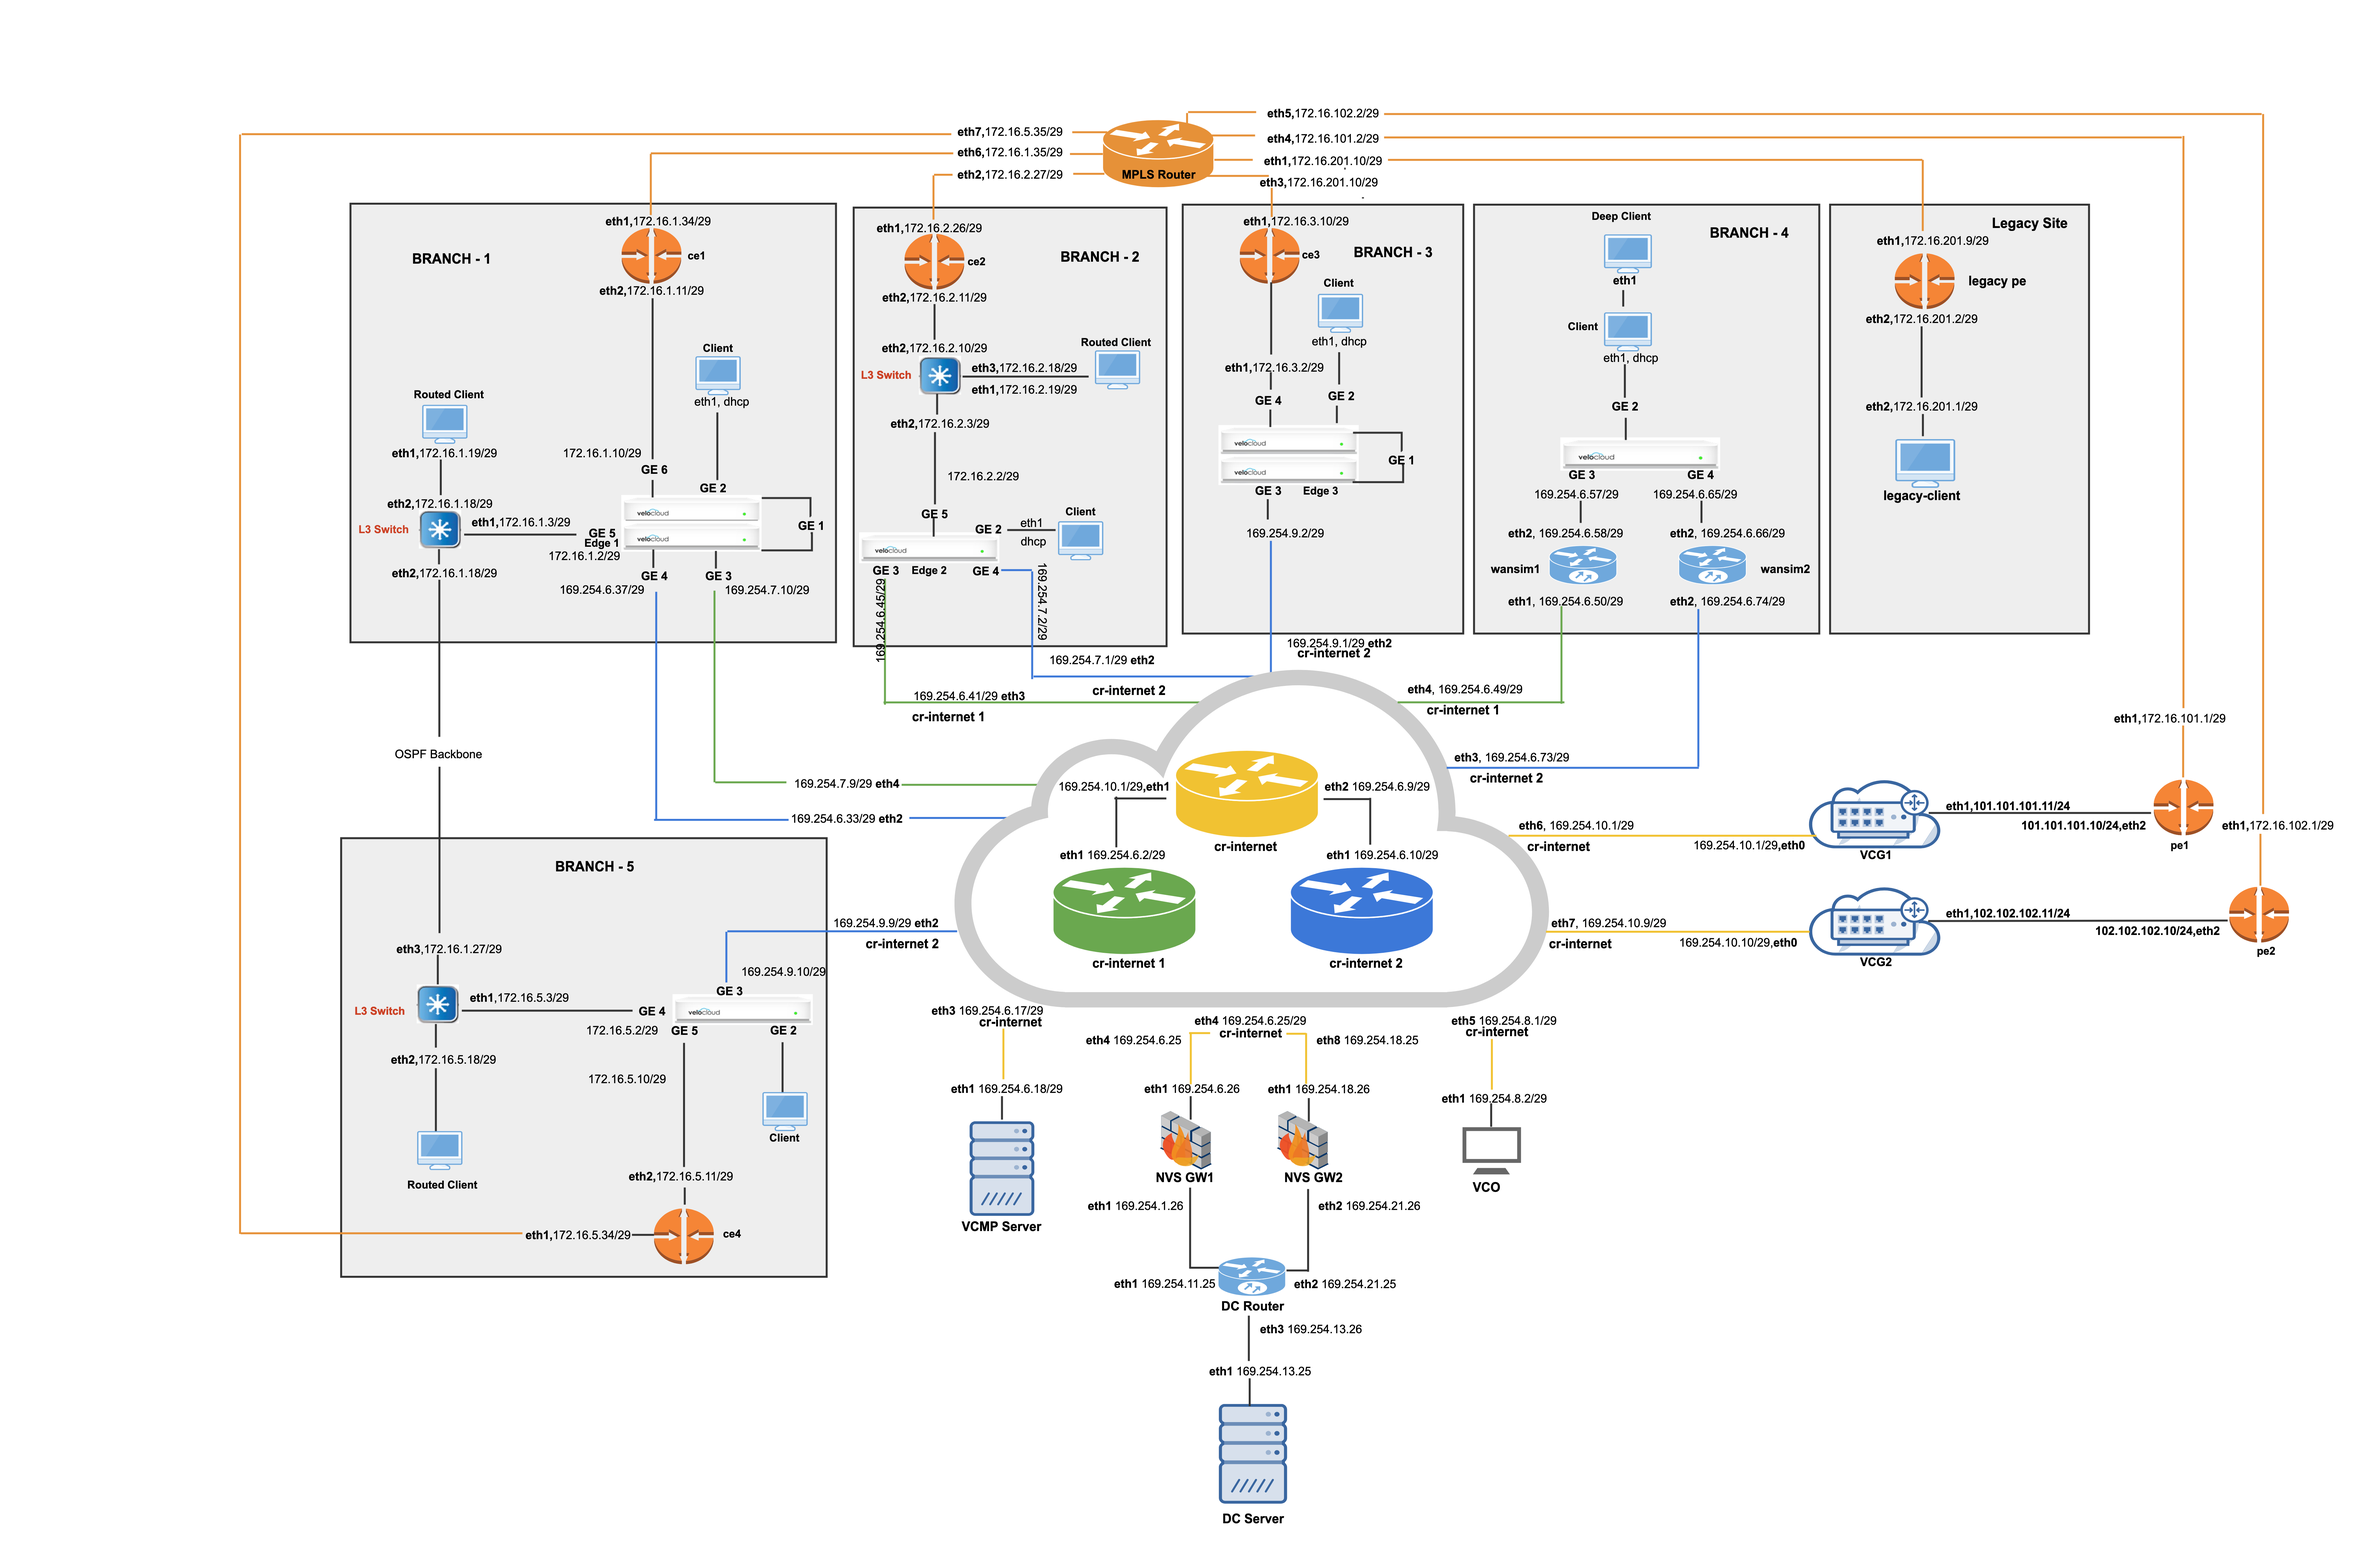
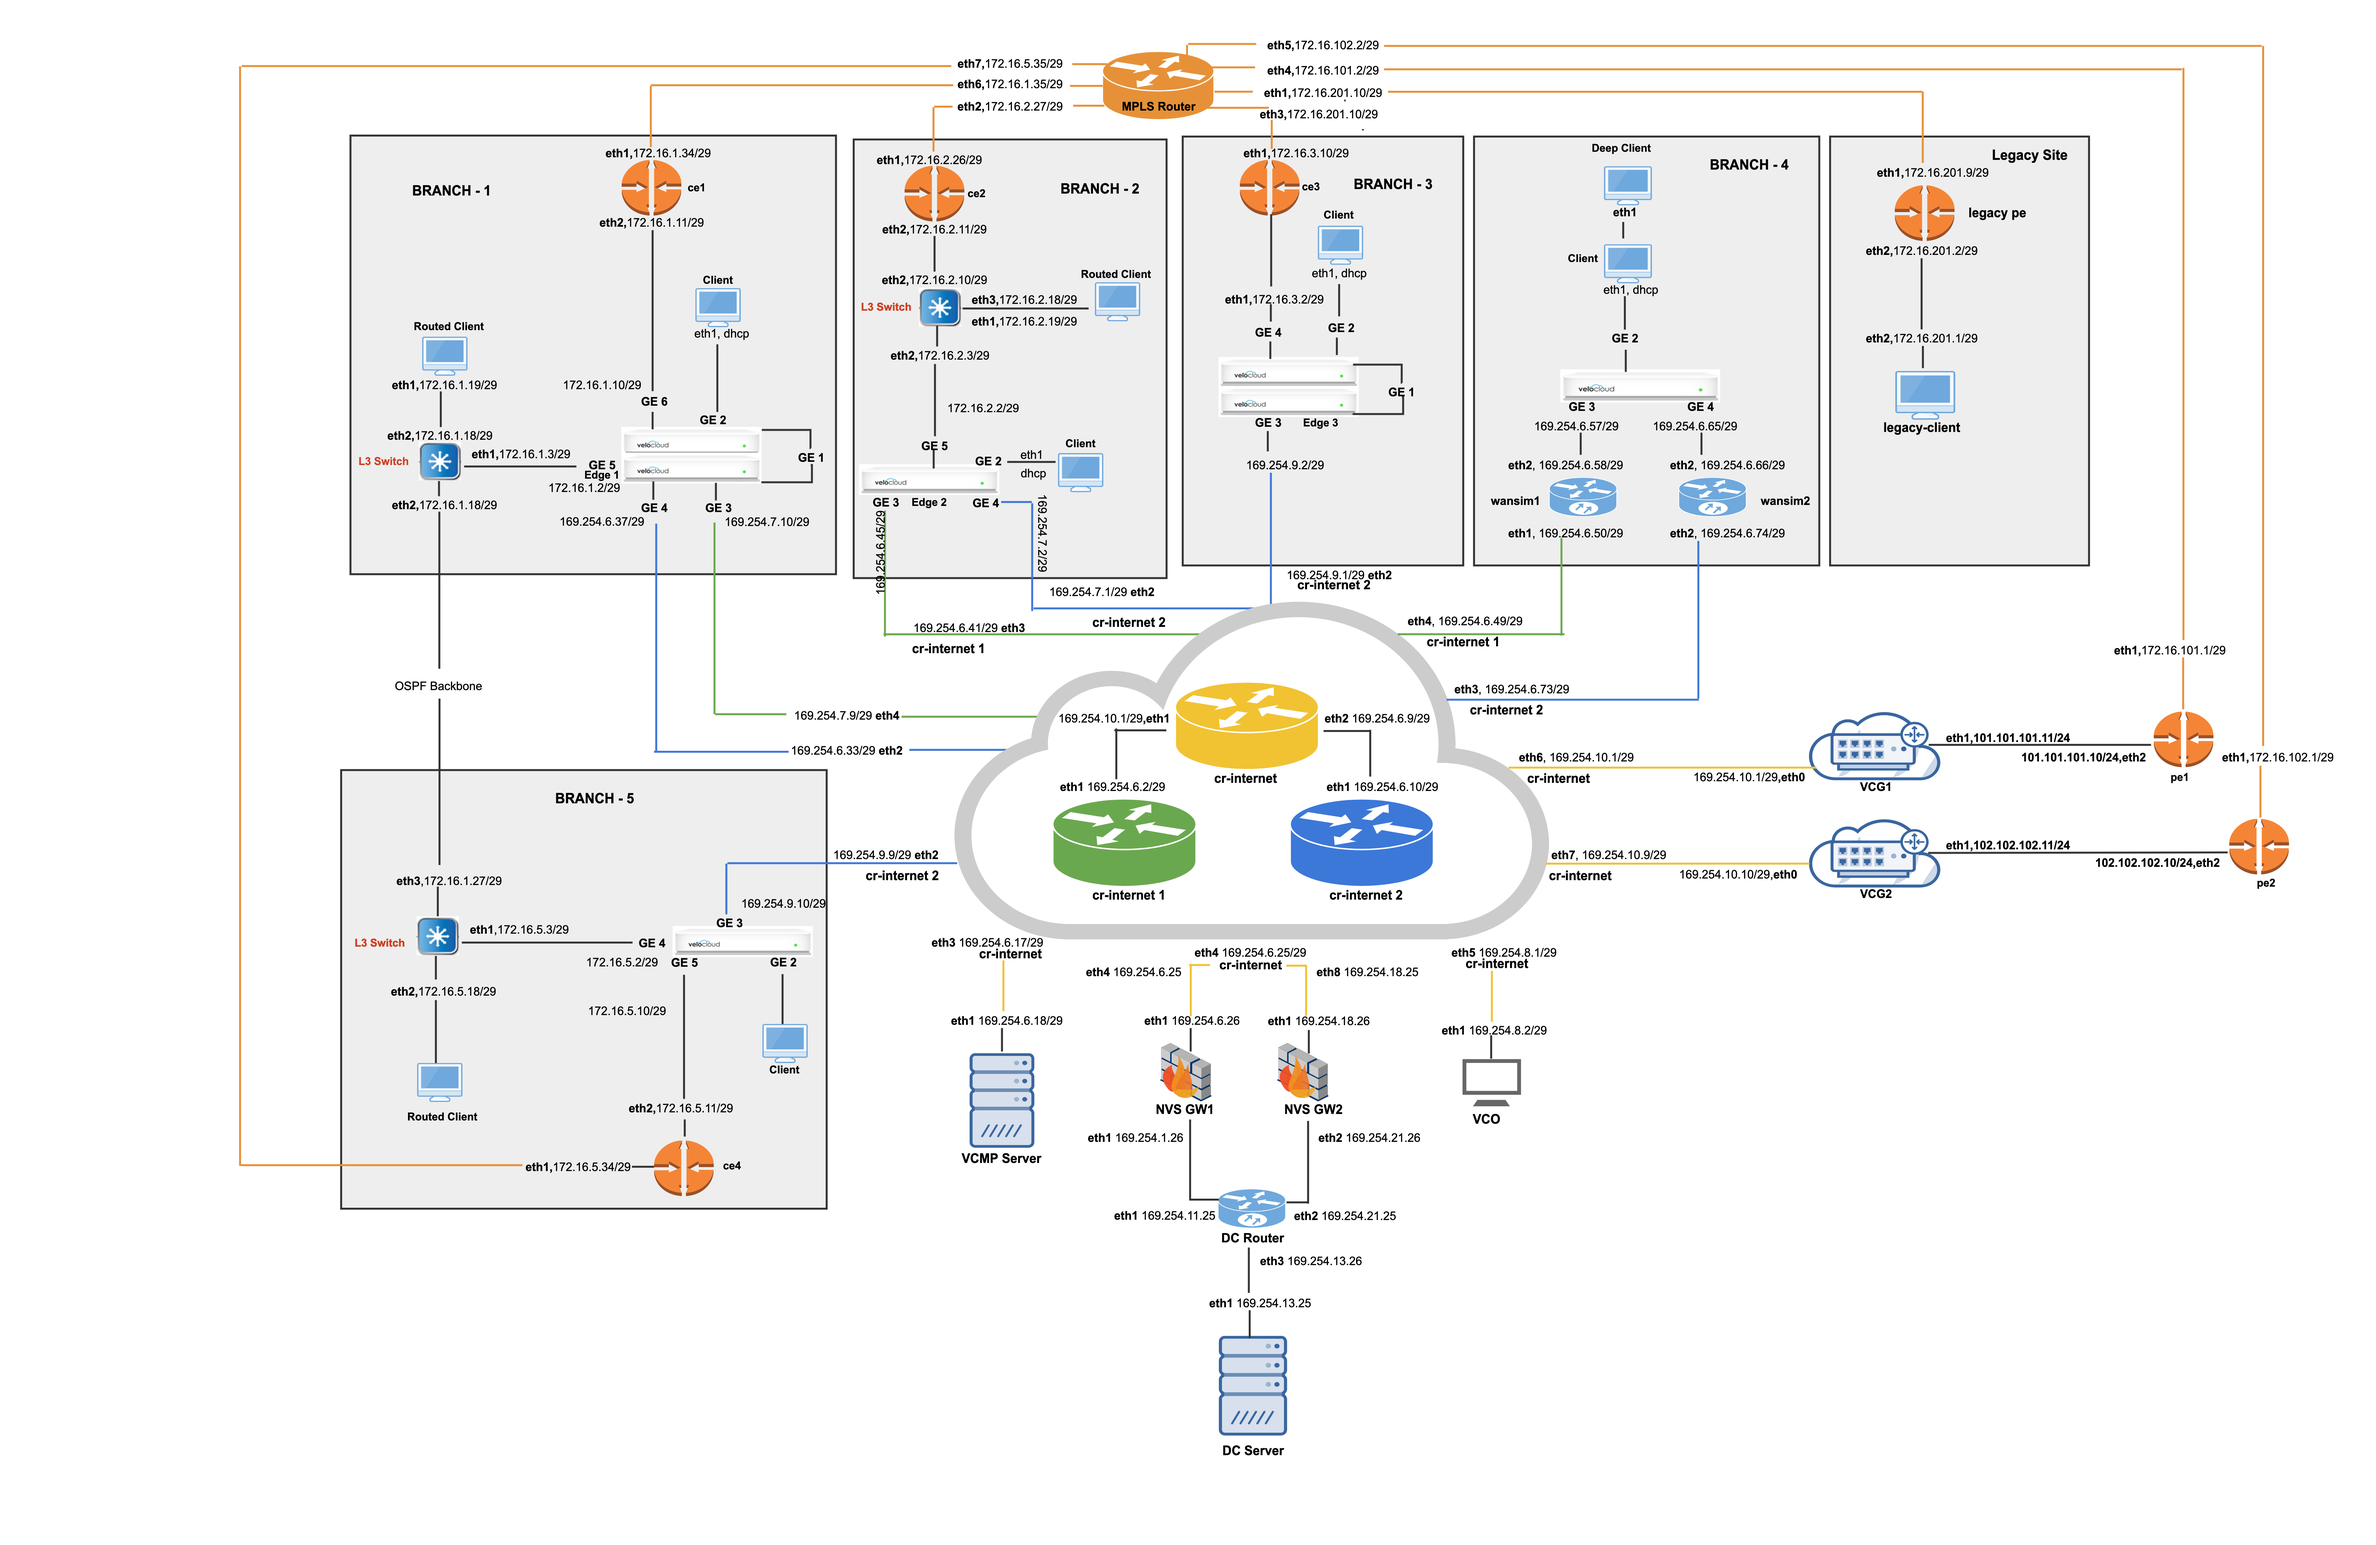
v0.04b

Changed region(s): [[0.1556, 0.0311, 0.9648, 0.9941], [0.1556, 0.5903, 0.2179, 0.7767], [0.2179, 0.4971, 0.2801, 0.5281]]

diff --git a/frontend/src/components/Fivesite.vue b/frontend/src/components/Fivesite.vue
@@ -116,154 +116,154 @@ const links = computed(() => {
   }
   .mplsrouter{
     left: 710px; 
-    top: 80px; 
+    top: 40px; 
   }
   .ce1{
     left: 310px; 
-    top: 145px; 
+    top: 105px; 
   }
   .ce2{
     left: 420px; 
-    top: 145px; 
+    top: 105px; 
   }
   .ce3{
     left: 560px; 
-    top: 145px; 
+    top: 105px; 
   }
   .legacype{
     left: 910px; 
-    top: 160px; 
+    top: 120px; 
   }
   .ce4{
     left: 30px; 
-    top: 780px; 
+    top: 740px; 
   }
   .pe1{
     left: 930px; 
-    top: 505px; 
+    top: 465px; 
   }
   .pe2{
     left: 905px; 
-    top: 570px; 
+    top: 530px; 
   }
   .cr-internet{
     left: 170px; 
-    top: 500px; 
+    top: 460px; 
   }
   .cr-internet1{
     left: 20px; 
-    top: 570px; 
+    top: 530px; 
   }
   .cr-internet2{
     left: 100px; 
-    top: 570px; 
+    top: 530px; 
   }
   .wansim1{
     left: 170px; 
-    top: 350px; 
+    top: 310px; 
   }
   .wansim2{
     left: 180px; 
-    top: 350px; 
+    top: 310px; 
   }
   .switch1{
     left: -720px; 
-    top: 320px; 
+    top: 280px; 
   }
   .switch2{
     left: -460px; 
-    top: 225px; 
+    top: 185px; 
   }
   .switch5{
     left: -850px; 
-    top: 630px; 
+    top: 590px; 
   }
   .vce1{
     left: -750px; 
-    top: 320px; 
+    top: 280px; 
   }
   .vce2{
     left: -670px; 
-    top: 335px; 
+    top: 295px; 
   }
   .vce3{
     left: -515px; 
-    top: 275px; 
+    top: 235px; 
   }
   .vce4{
     left: -360px; 
-    top: 275px; 
+    top: 245px; 
   }
   .vce5{
     left: -1015px; 
-    top: 635px; 
+    top: 595px; 
   }
   .vcg1{
     left: 1180px; 
-    top: 475px; 
+    top: 435px; 
   }
   .vcg2{
     left: 1100px; 
-    top: 550px; 
+    top: 510px; 
   }
   .vco{
     left: 780px; 
-    top: 690px; 
+    top: 650px; 
   }
   .gw1{
     left: 500px; 
-    top: 690px; 
+    top: 650px; 
   }
   .gw2{
     left: 500px; 
-    top: 690px; 
+    top: 650px; 
   }
   .vcmp{
     left: 240px; 
-    top: 700px; 
+    top: 660px; 
   }
   .dc{
     left: 325px; 
-    top: 880px; 
+    top: 840px; 
   }
   .routed1{
     left: -270px; 
-    top: 215px; 
+    top: 175px; 
   }
   .client1{
     left: -170px; 
-    top: 185px; 
+    top: 145px; 
   }
   .routed2{
     left: 20px; 
-    top: 185px; 
+    top: 145px; 
   }
   .client2{
     left: -80px; 
-    top: 295px; 
+    top: 255px; 
   }
   .client3{
     left: 10px; 
-    top: 145px; 
+    top: 105px; 
   }
   .client4{
     left: 120px; 
-    top: 155px; 
+    top: 115px; 
   }
   .clientd4{
     left: 50px; 
-    top: 105px; 
+    top: 65px; 
   }
   .legacyclient{
     left: 170px; 
-    top: 240px; 
+    top: 200px; 
   }
   .routed5{
     left: -870px; 
-    top: 690px; 
+    top: 650px; 
   }
   .client5{
     left: -720px; 
-    top: 660px; 
+    top: 620px; 
   }
 </style>

diff --git a/frontend/src/pages/index.vue b/frontend/src/pages/index.vue
@@ -1,7 +1,7 @@
 <template>
   <div>
     <!-- Pass the updateComps method as a prop to the navigation component -->
-    <navigation ref="nav" :update-comps="updateComps" />
+    <Navigation ref="nav" :update-comps="updateComps" />
   </div>
   <div>
     <!-- Conditional rendering based on the value of mains -->
@@ -11,26 +11,26 @@
 
 <script lang="ts" setup>
 import { ref, watchEffect } from 'vue';
-import reservation from '../components/reservation.vue';
-import navigation from '../components/navigation.vue'; // Import the Navigation component
-import fivesite from '../components/fivesite.vue';
-import welcome from '../components/welcome.vue';
-import threesite from '../components/threesite.vue';
+import Reservation from '../components/Reservation.vue';
+import Fivesite from '../components/Fivesite.vue';
+import Threesite from '../components/Threesite.vue';
+import Welcome from '../components/Welcome.vue';
+import Navigation from '../components/Navigation.vue';
 
-const nav = ref<InstanceType<typeof navigation> | null>(null); // Define ref for navigation component
+const nav = ref<null>(null); // Define ref for navigation component
 const mains = ref(''); // Initialize mains ref with an empty string
 const comps = ref<any>(null); // Initialize comps ref with null
 
 // Method to reactively update comps based on mains
 const updateComps = (value) => {
   if (value === 'Five site') {
-    comps.value = fivesite; // Display the AccessBar component
+    comps.value = Fivesite; // Display the AccessBar component
   } else if (value === 'Reservation') {
-    comps.value = reservation; // Display the Reservation component
+    comps.value = Reservation; // Display the Reservation component
   } else if (value === 'Three site') {
-    comps.value = threesite; // Display the Reservation component
+    comps.value = Threesite; // Display the Reservation component
   } else {
-    comps.value = welcome; // Display nothing if mains doesn't match any condition
+    comps.value = Welcome; // Display nothing if mains doesn't match any condition
   }
 };
 

diff --git a/frontend/components.d.ts b/frontend/components.d.ts
@@ -7,23 +7,15 @@ export {}
 
 declare module 'vue' {
   export interface GlobalComponents {
-    Accessbar: typeof import('./src/components/accessbar.vue')['default']
-    Check: typeof import('./src/components/check.vue')['default']
-    Fivesite: typeof import('./src/components/fivesite.vue')['default']
+    Check: typeof import('./src/components/Check.vue')['default']
+    Fivesite: typeof import('./src/components/Fivesite.vue')['default']
     HelloWorld: typeof import('./src/components/HelloWorld.vue')['default']
-    Labaccess: typeof import('./src/components/labaccess.vue')['default']
-    Lablogin: typeof import('./src/components/lablogin.vue')['default']
-    Labselector: typeof import('./src/components/labselector.vue')['default']
-    Login: typeof import('./src/components/login.vue')['default']
-    Navigation: typeof import('./src/components/navigation.vue')['default']
-    Reservation: typeof import('./src/components/reservation.vue')['default']
-    Reserve: typeof import('./src/components/reserve.vue')['default']
+    Login: typeof import('./src/components/Login.vue')['default']
+    Navigation: typeof import('./src/components/Navigation.vue')['default']
+    Reservation: typeof import('./src/components/Reservation.vue')['default']
     RouterLink: typeof import('vue-router')['RouterLink']
     RouterView: typeof import('vue-router')['RouterView']
-    Threesite: typeof import('./src/components/threesite.vue')['default']
-    Topbar: typeof import('./src/components/topbar.vue')['default']
-    Topology: typeof import('./src/components/Topology.vue')['default']
-    welcome: typeof import('./src/components/welcome.vue')['default']
-    Welcome: typeof import('./src/components/welcome.vue')['default']
+    Threesite: typeof import('./src/components/Threesite.vue')['default']
+    Welcome: typeof import('./src/components/Welcome.vue')['default']
   }
 }

diff --git a/frontend/src/components/Navigation.vue b/frontend/src/components/Navigation.vue
@@ -13,6 +13,7 @@
         :items="items"
         density="compact"
         label="LAB"
+        variant="solo-filled"
         @update:modelValue="select"
       ></v-select>
 
